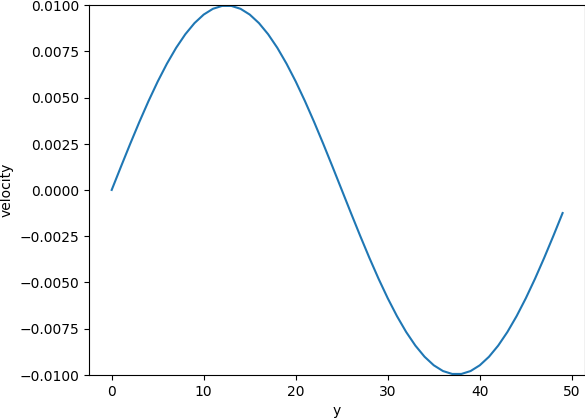
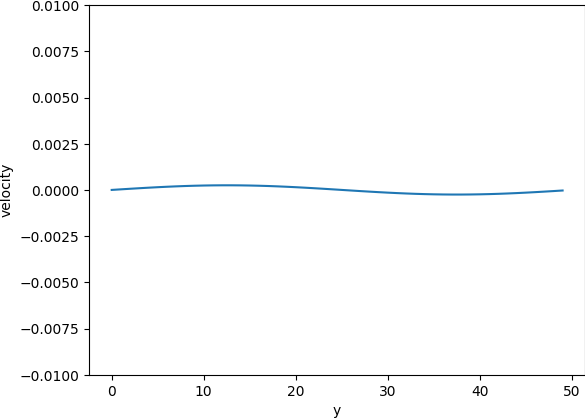
Fix plotting bug

diff --git a/shearWave.py b/shearWave.py
@@ -4,7 +4,7 @@ import numpy as np
 from lb import LatticeBoltzmann
 from plot import Plotter
 
-def shear_wave_sim(experiment, nx: int = 50, ny: int = 50, omega: float = 1.0, epsilon: float = 0.01,
+def shear_wave_sim(experiment, viscosity = False, nx: int = 50, ny: int = 50, omega: float = 1.0, epsilon: float = 0.01,
                           steps: int = 2000, p0: float = 1.0):
     
     # split velocity set into x and y components (unused right now)
@@ -38,14 +38,14 @@ def shear_wave_sim(experiment, nx: int = 50, ny: int = 50, omega: float = 1.0, e
         rho, velocities = latticeBoltzmann.output()
 
         # gather quantities for plotting
-        plotter.gather_quantities(velocities, rho, p0, experiment)
+        if viscosity: plotter.gather_quantities(velocities, rho, p0, experiment)
 
         # plot shear wave every 200 steps 
-        if(step % 200 == 0):
+        if((step % 200 == 0) and (not viscosity)):
             plotter.plot_shear_wave(velocities, rho, p0, step, epsilon, nx, ny, experiment)
 
     # return the viscosity
-    return plotter.return_viscosity(x, nx, epsilon, omega, steps, experiment)
+    return plotter.return_viscosity(x, nx, epsilon, omega, steps, experiment) if viscosity else None
     
 
 # Experiments setup
@@ -59,18 +59,20 @@ velocity_path = os.path.join(vis_path, f'velocity_viscosity.png')
 # Shear wave experiment 1 (density) 
 density_simulated_viscosities = []
 density_analytical_viscosities = []
-for omega in omegas:
-    simulated_viscosity, analytical_viscosity = shear_wave_sim(omega=omega, experiment='density')
+for omega in omegas: # for viscosity plots
+    simulated_viscosity, analytical_viscosity = shear_wave_sim(omega=omega, viscosity=True, experiment='density')
     density_simulated_viscosities.append(simulated_viscosity)
     density_analytical_viscosities.append(analytical_viscosity)
+shear_wave_sim(experiment='density') # for shear wave plots
 
 # Shea wave experiment 2 (velocity)
 velocity_simulated_viscosities = []
 velocity_analytical_viscosities = []
-for omega in omegas:
-    simulated_viscosity, analytical_viscosity = shear_wave_sim(omega=omega, experiment='velocity')
+for omega in omegas: # for viscosity plots
+    simulated_viscosity, analytical_viscosity = shear_wave_sim(omega=omega, viscosity=True, experiment='velocity')
     velocity_simulated_viscosities.append(simulated_viscosity)
     velocity_analytical_viscosities.append(analytical_viscosity)
+shear_wave_sim(experiment='velocity') # for shear wave plots
 
 # Plot density viscosity vs omega
 plt.cla()
